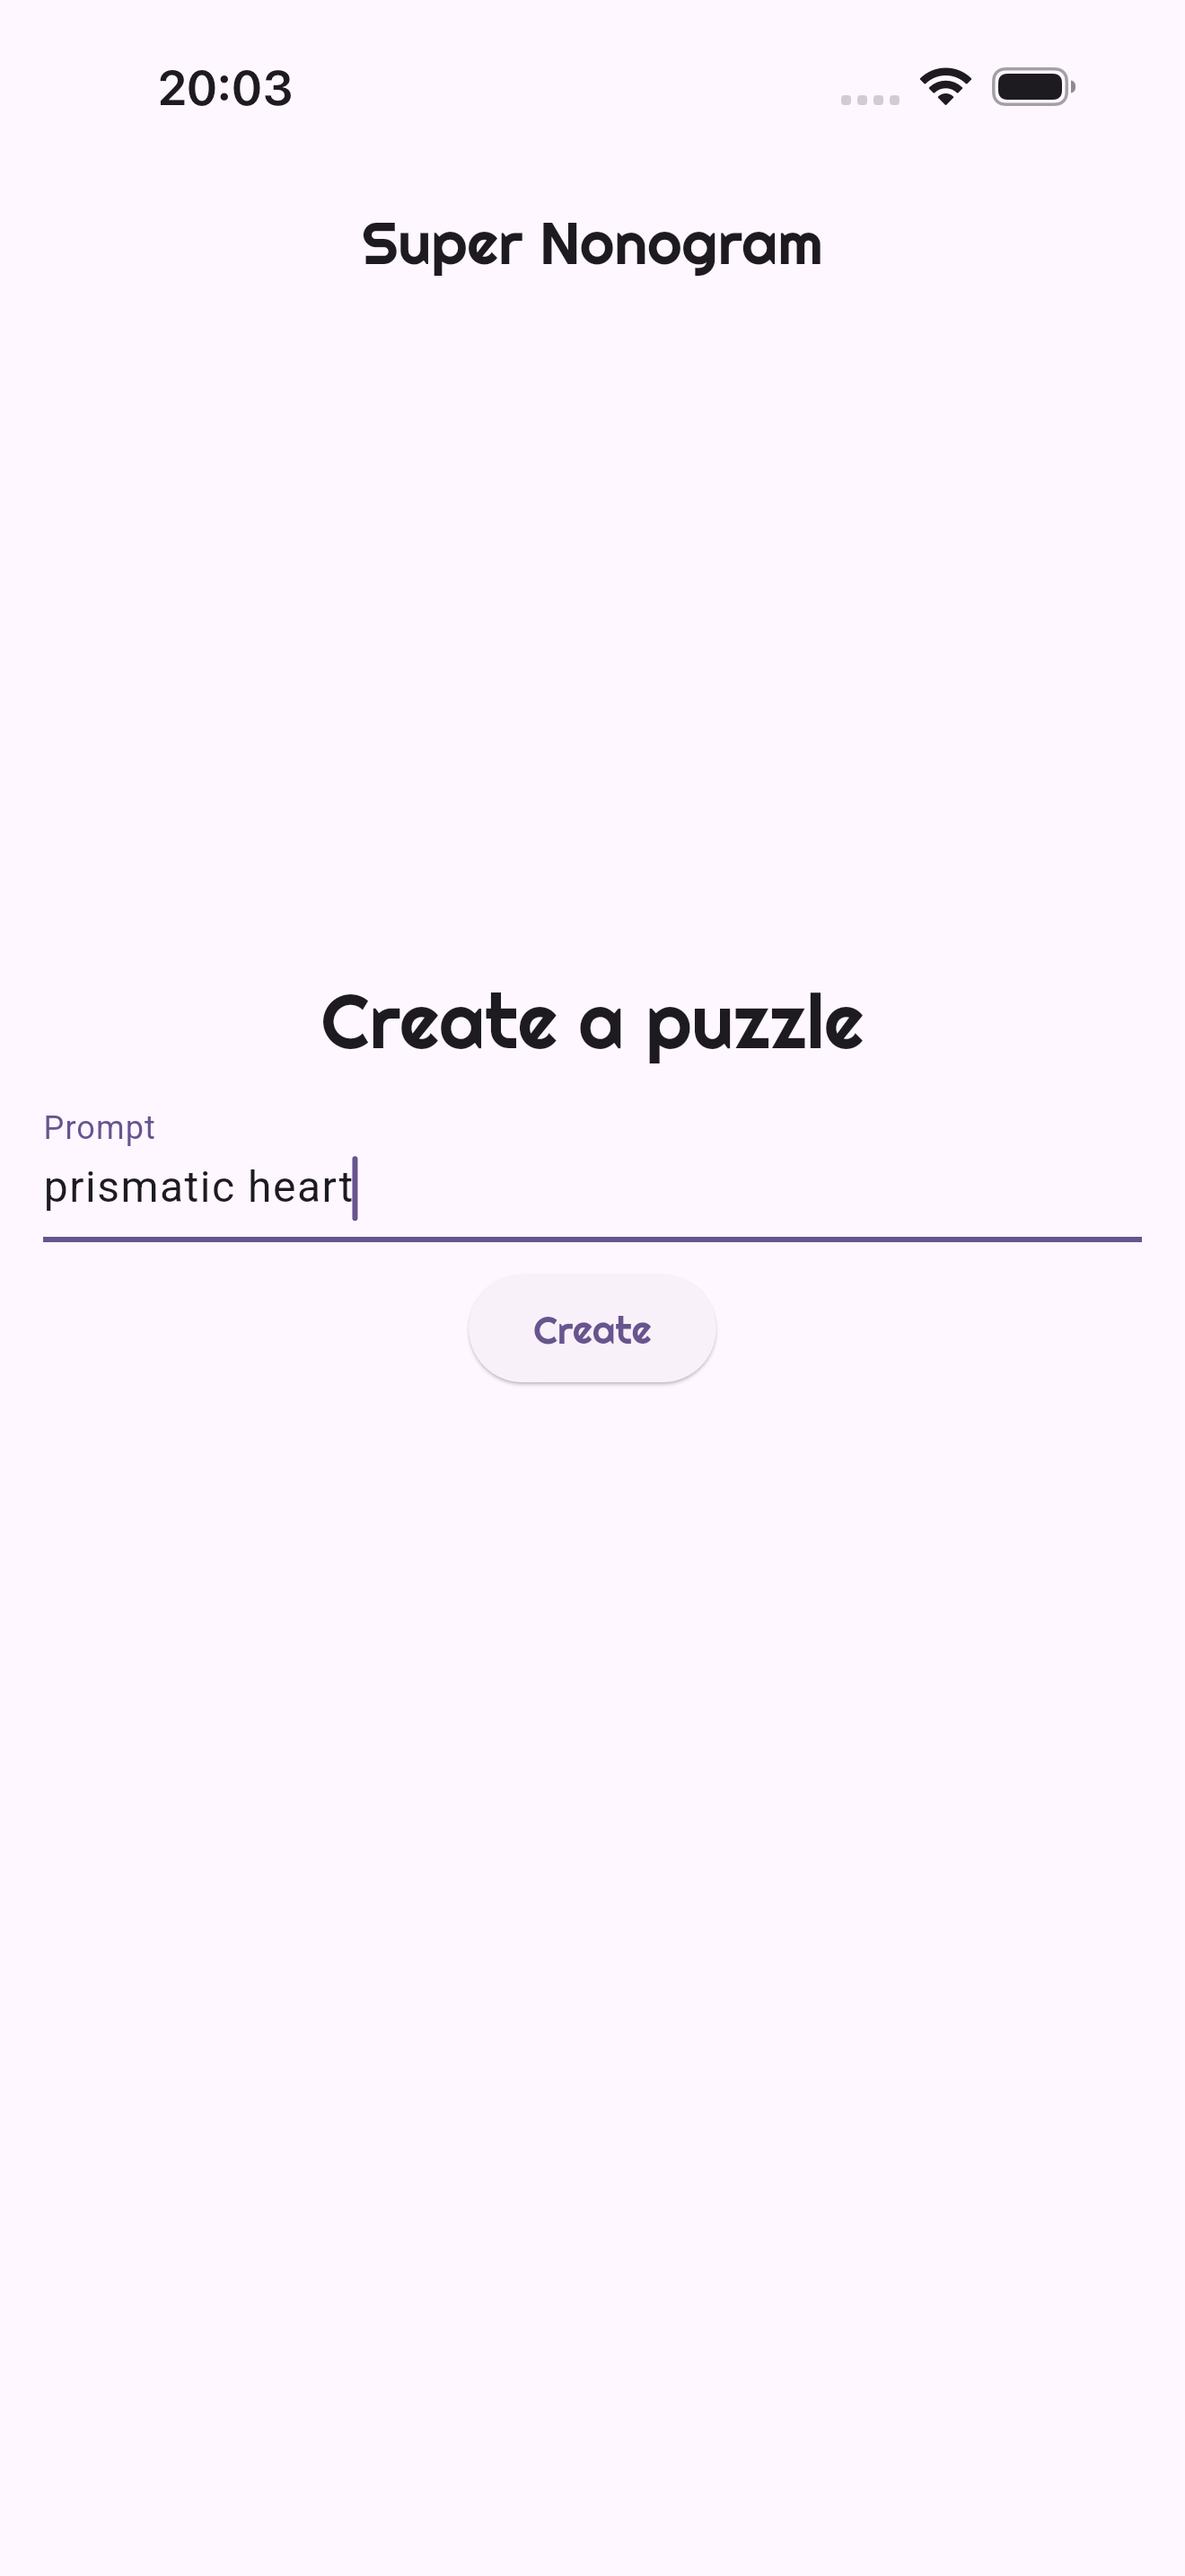
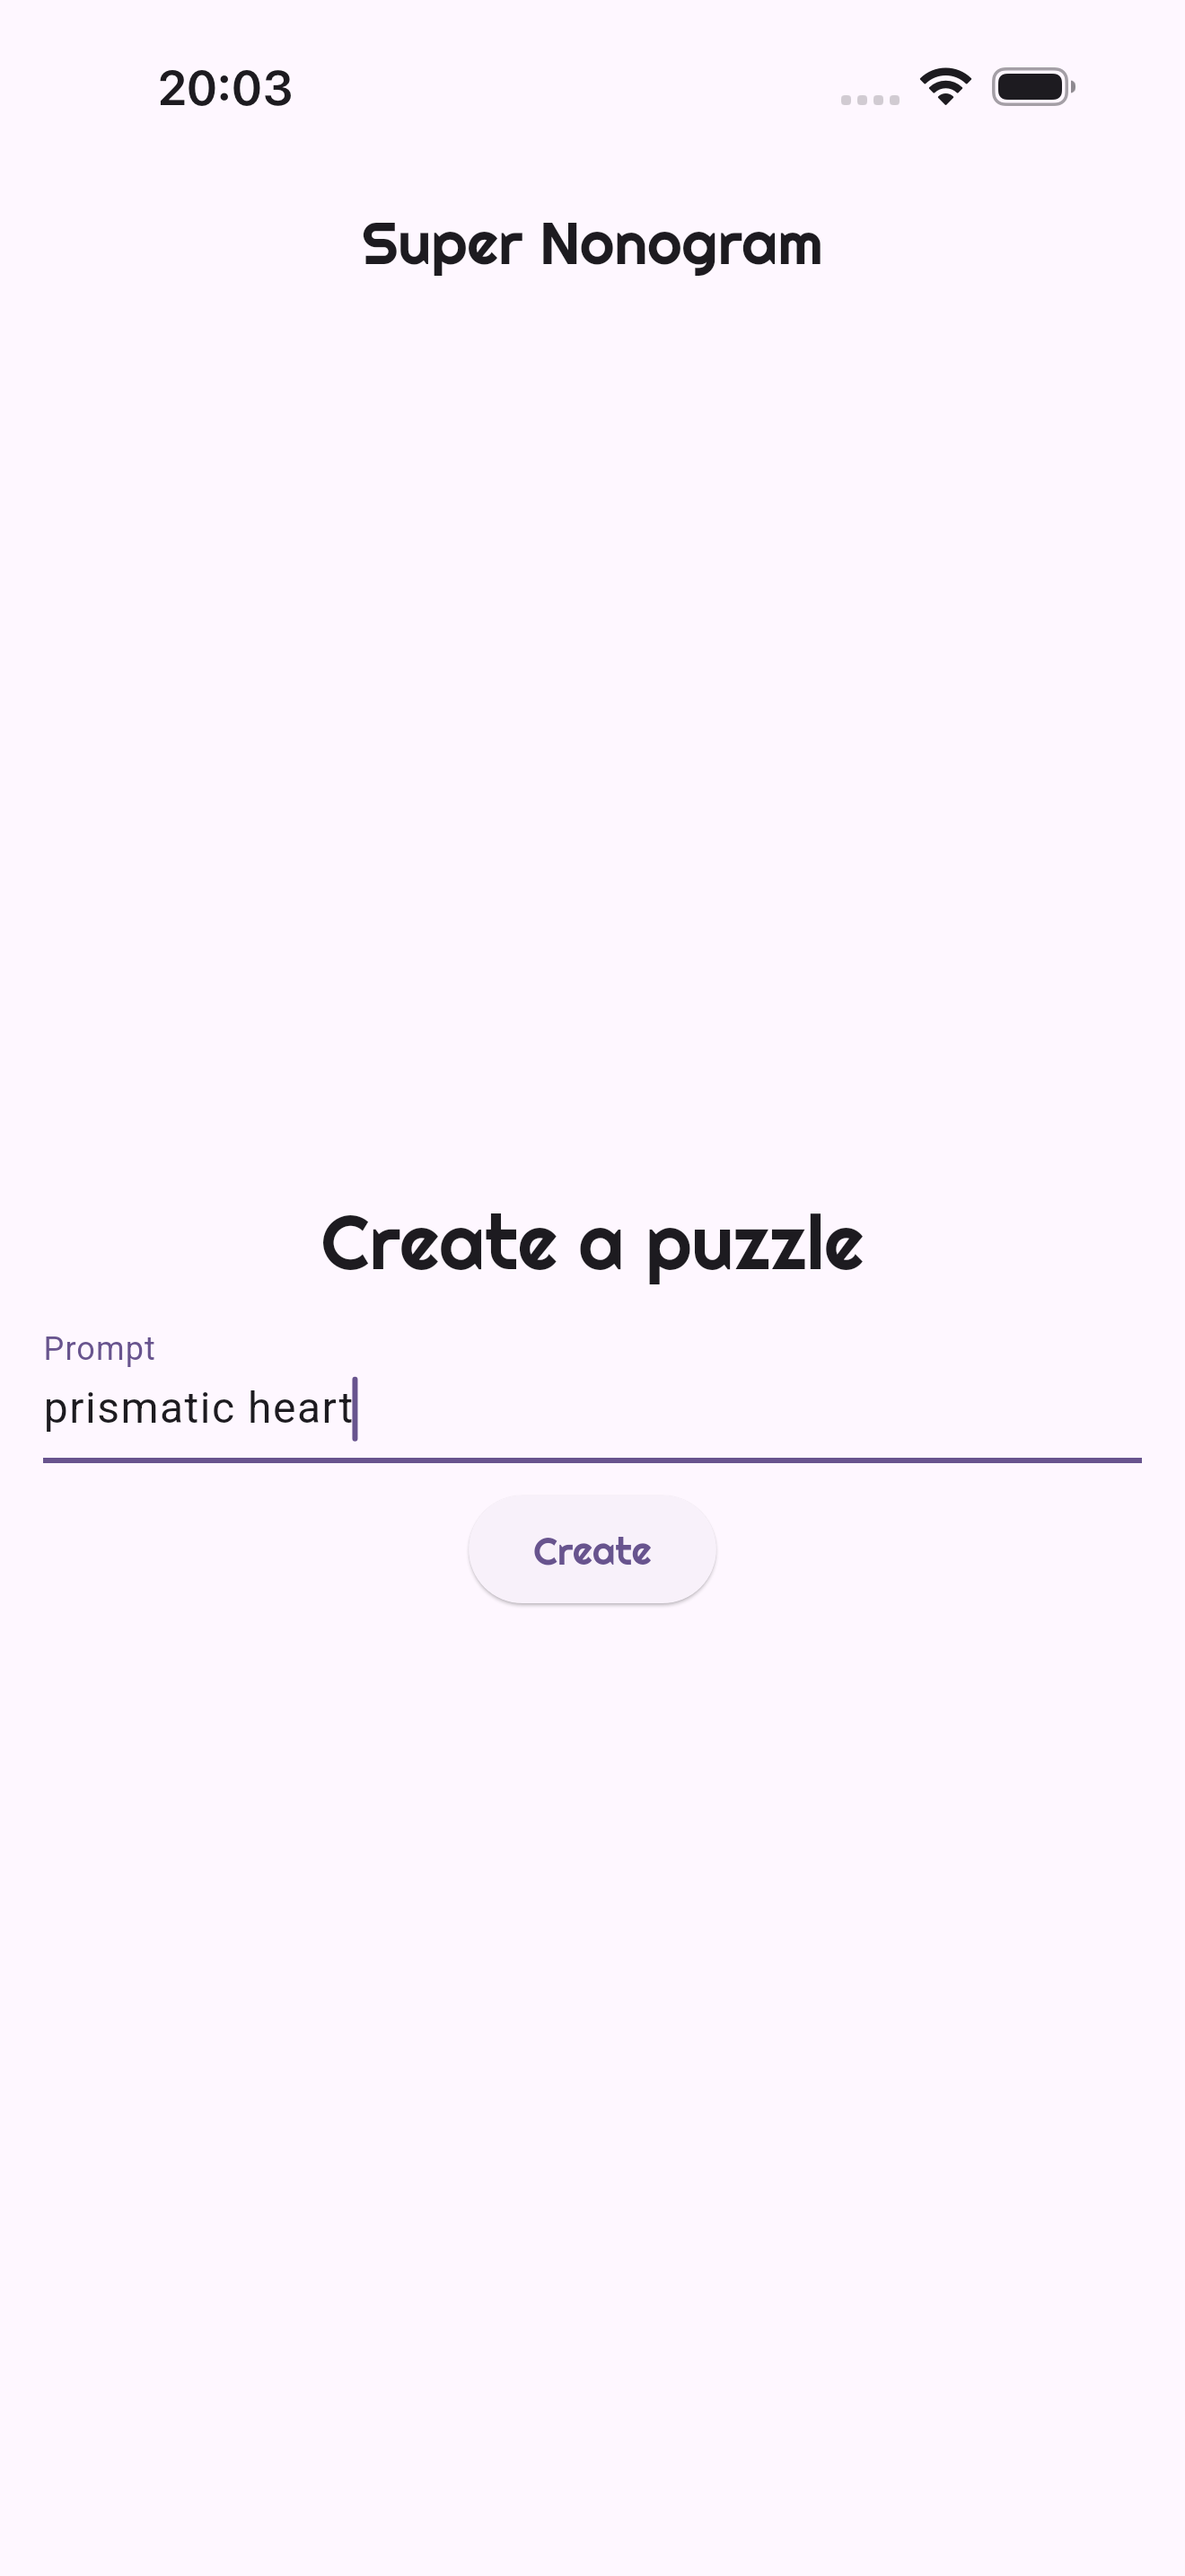
test: golden of image board

diff --git a/lib/pages/play_page.dart b/lib/pages/play_page.dart
@@ -1,6 +1,6 @@
+import 'dart:async';
 import 'dart:convert';
 import 'dart:math';
-import 'dart:typed_data';
 
 import 'package:flutter/foundation.dart';
 import 'package:flutter/gestures.dart';
@@ -32,13 +32,15 @@ class PlayPage extends StatefulWidget {
   final int? level;
 
   @override
-  State<PlayPage> createState() => _PlayPageState();
+  PlayPageState createState() => PlayPageState();
 }
 
-class _PlayPageState extends State<PlayPage> {
+@visibleForTesting
+class PlayPageState extends State<PlayPage> {
   PixabayImage? imageInfo;
   Uint8List? imageBytes;
   BoardState? answerBoard;
+  final colorSchemeFromImage = ValueNotifier<ColorScheme?>(null);
 
   TileState currentTileAction = TileState.selected;
 
@@ -58,6 +60,7 @@ class _PlayPageState extends State<PlayPage> {
         '/$encodedQuery.json',
       );
       imageBytes = await FileManager.readFile<Uint8List>('/$encodedQuery.png');
+      _loadColorSchemeFromImage();
       imageInfo = infoJson == null
           ? null
           : PixabayImage.fromJson(jsonDecode(infoJson));
@@ -67,6 +70,35 @@ class _PlayPageState extends State<PlayPage> {
       answerBoard = LevelToBoard.generate(widget.level!);
       setState(() {});
     }
+  }
+
+  @override
+  void didChangeDependencies() {
+    super.didChangeDependencies();
+
+    if (imageBytes != null) {
+      final brightness = Theme.of(context).brightness;
+      if (brightness != colorSchemeFromImage.value?.brightness) {
+        _loadColorSchemeFromImage();
+      }
+    }
+  }
+
+  @override
+  void dispose() {
+    colorSchemeFromImage.dispose();
+    super.dispose();
+  }
+
+  void _loadColorSchemeFromImage() async {
+    if (imageBytes == null) return;
+    final parentTheme = Theme.of(context);
+    colorSchemeFromImage.value = await ColorScheme.fromImageProvider(
+      provider: MemoryImage(imageBytes!),
+      dynamicSchemeVariant: .fidelity,
+      brightness: parentTheme.brightness,
+      contrastLevel: MediaQuery.highContrastOf(context) ? 0.9 : 0.0,
+    );
   }
 
   void onSolved() {
@@ -164,82 +196,77 @@ class _PlayPageState extends State<PlayPage> {
   Widget build(BuildContext context) {
     final parentTheme = Theme.of(context);
     final textTheme = parentTheme.textTheme;
-    return FutureBuilder(
-      future: imageBytes == null
-          ? null
-          : ColorScheme.fromImageProvider(
-              provider: MemoryImage(imageBytes!),
-              brightness: parentTheme.brightness,
-            ),
-      builder: (context, snapshot) {
-        final colorScheme = snapshot.data ?? parentTheme.colorScheme;
+    return ValueListenableBuilder(
+      valueListenable: colorSchemeFromImage,
+      builder: (context, colorSchemeFromImage, child) {
         return Theme(
-          data: parentTheme.copyWith(colorScheme: colorScheme),
-          child: Scaffold(
-            appBar: AppBar(
-              title: Text(t.title.appName),
-              // Display level selector
-              bottom: widget.level == null
-                  ? null
-                  : PreferredSize(
-                      preferredSize: const Size.fromHeight(48),
-                      child: Row(
-                        mainAxisAlignment: MainAxisAlignment.center,
-                        children: [
-                          if (widget.level! > 1)
-                            IconButton(
-                              onPressed: () {
-                                stows.currentLevel.value = widget.level! - 1;
-                                context.pushReplacement(
-                                  '/play?level=${stows.currentLevel.value}',
-                                );
-                              },
-                              icon: const Icon(Icons.arrow_left),
-                            ),
-                          Text(
-                            t.play.level(n: widget.level!),
-                            style: textTheme.titleLarge,
-                          ),
-                          IconButton(
-                            onPressed: () {
-                              stows.currentLevel.value = widget.level! + 1;
-                              context.pushReplacement(
-                                '/play?level=${stows.currentLevel.value}',
-                              );
-                            },
-                            icon: const Icon(Icons.arrow_right),
-                          ),
-                        ],
-                      ),
-                    ),
-            ),
-            body: Column(
-              children: [
-                Expanded(
-                  child: Center(
-                    child: answerBoard == null
-                        ? const CircularProgressIndicator()
-                        : Board(
-                            answerBoard: answerBoard!,
-                            srcImage: imageBytes,
-                            onSolved: onSolved,
-                            currentTileAction: currentTileAction,
-                          ),
-                  ),
-                ),
-                SafeArea(
-                  child: Toolbar(
-                    currentTileAction: currentTileAction,
-                    setTileAction: (tileAction) => setState(() {
-                      currentTileAction = tileAction;
-                    }),
-                  ),
-                ),
-              ],
-            ),
-          ),
+          data: parentTheme.copyWith(colorScheme: colorSchemeFromImage),
+          child: child!,
         );
       },
+      child: Scaffold(
+        appBar: AppBar(
+          title: Text(t.title.appName),
+          // Display level selector
+          bottom: widget.level == null
+              ? null
+              : PreferredSize(
+                  preferredSize: const Size.fromHeight(48),
+                  child: Row(
+                    mainAxisAlignment: MainAxisAlignment.center,
+                    children: [
+                      if (widget.level! > 1)
+                        IconButton(
+                          onPressed: () {
+                            stows.currentLevel.value = widget.level! - 1;
+                            context.pushReplacement(
+                              '/play?level=${stows.currentLevel.value}',
+                            );
+                          },
+                          icon: const Icon(Icons.arrow_left),
+                        ),
+                      Text(
+                        t.play.level(n: widget.level!),
+                        style: textTheme.titleLarge,
+                      ),
+                      IconButton(
+                        onPressed: () {
+                          stows.currentLevel.value = widget.level! + 1;
+                          context.pushReplacement(
+                            '/play?level=${stows.currentLevel.value}',
+                          );
+                        },
+                        icon: const Icon(Icons.arrow_right),
+                      ),
+                    ],
+                  ),
+                ),
+        ),
+        body: Column(
+          children: [
+            Expanded(
+              child: Center(
+                child: answerBoard == null
+                    ? const CircularProgressIndicator()
+                    : Board(
+                        answerBoard: answerBoard!,
+                        srcImage: imageBytes,
+                        onSolved: onSolved,
+                        currentTileAction: currentTileAction,
+                      ),
+              ),
+            ),
+            SafeArea(
+              child: Toolbar(
+                currentTileAction: currentTileAction,
+                setTileAction: (tileAction) => setState(() {
+                  currentTileAction = tileAction;
+                }),
+              ),
+            ),
+          ],
+        ),
+      ),
     );
   }
 

diff --git a/test/golden_screenshot_test.dart b/test/golden_screenshot_test.dart
@@ -4,9 +4,17 @@
 /// or `flutter test` to compare the screenshots to the golden files.
 library;
 
+import 'dart:convert';
+import 'dart:io';
+
 import 'package:flutter/material.dart';
 import 'package:flutter_test/flutter_test.dart';
 import 'package:golden_screenshot/golden_screenshot.dart';
+import 'package:super_nonogram/api/api.dart';
+import 'package:super_nonogram/api/file_manager.dart';
+import 'package:super_nonogram/api/image_to_board.dart';
+import 'package:super_nonogram/board/ngb.dart';
+import 'package:super_nonogram/pages/play_page.dart';
 import 'package:super_nonogram/pages/search_page.dart';
 import 'package:super_nonogram/pages/title_page.dart';
 import 'package:super_nonogram/theme/theme.dart';
@@ -17,22 +25,33 @@ void main() {
   group('Screenshot:', () {
     TestWidgetsFlutterBinding.ensureInitialized();
     setupMockPathProvider();
+    setUpAll(_createPrismaticHeartPuzzle);
 
     _screenshot('1-title', home: TitlePage());
 
     _screenshot(
       '2-search',
-      home: SearchPage(),
+      home: SearchPage(showPreviousPuzzles: false),
       beforeScreenshot: (tester) async {
-        final context = tester.element(find.byType(SearchPage));
-        if (Theme.of(context).platform == TargetPlatform.linux) {
-          // We haven't automated all the screenshots yet, so match the existing
-          // screenshots on Linux with a frog search.
-          await tester.enterText(find.byType(TextField), 'frog');
-        } else {
-          await tester.enterText(find.byType(TextField), 'prismatic heart');
-        }
+        await tester.enterText(find.byType(TextField), 'prismatic heart');
         await tester.pump();
+      },
+    );
+
+    _screenshot(
+      '3-heart',
+      home: PlayPage(query: 'prismatic heart', level: null),
+      beforeScreenshot: (tester) async {
+        final playPageState = tester.state<PlayPageState>(
+          find.byType(PlayPage),
+        );
+        // Wait for the board to load.
+        while (playPageState.colorSchemeFromImage.value == null) {
+          await tester.runAsync(
+            () => Future.delayed(const Duration(milliseconds: 10)),
+          );
+          await tester.pump();
+        }
       },
     );
   });
@@ -74,4 +93,36 @@ void _screenshot(
       });
     }
   });
+}
+
+Future<void> _createPrismaticHeartPuzzle([
+  String query = 'prismatic heart',
+]) async {
+  final baseFilename = Uri.encodeComponent(query);
+  final fileNgb = '/$baseFilename.ngb';
+  final filePng = '/$baseFilename.png';
+  final fileJson = '/$baseFilename.json';
+
+  final srcImage = File(
+    'test/test_assets/prismatic_heart.png',
+  ).readAsBytesSync();
+  final board = await ImageToBoard.importFromBytes(srcImage);
+  final info = PixabayImage(
+    id: 1237242,
+    pageUrl:
+        'https://pixabay.com/vectors/colorful-prismatic-chromatic-1237242/',
+    previewUrl: '_',
+    previewSize: const Size(150, 150),
+    webformatUrl: '_',
+    webformatSize: const Size(640, 640),
+    authorId: 1086657,
+    authorName: 'GDJ',
+    authorImageUrl: '_',
+  );
+
+  final ngb = Ngb.writeNgb(board!);
+  await FileManager.writeFile(fileNgb, string: ngb);
+  await FileManager.writeFile(filePng, bytes: srcImage);
+  await FileManager.writeFile(fileJson, string: jsonEncode(info));
+  PreviousPuzzles.recordPuzzle(query);
 }

diff --git a/lib/pages/search_page.dart b/lib/pages/search_page.dart
@@ -8,7 +8,12 @@ import 'package:super_nonogram/board/ngb.dart';
 import 'package:super_nonogram/i18n/strings.g.dart';
 
 class SearchPage extends StatefulWidget {
-  const SearchPage({super.key});
+  const SearchPage({
+    super.key,
+    @visibleForTesting this.showPreviousPuzzles = true,
+  });
+
+  final bool showPreviousPuzzles;
 
   @override
   State<SearchPage> createState() => _SearchPageState();
@@ -109,7 +114,7 @@ class _SearchPageState extends State<SearchPage> {
                   child: Text(t.search.create),
                 ),
                 const SizedBox(height: 32),
-                const PreviousPuzzles(),
+                if (widget.showPreviousPuzzles) const PreviousPuzzles(),
               ],
             ),
           ),

diff --git a/lib/api/api.dart b/lib/api/api.dart
@@ -96,7 +96,8 @@ class PixabayImage {
       '?utm_source=link-attribution&utm_medium=referral'
       '&utm_campaign=image&utm_content=$id';
 
-  const PixabayImage._({
+  @visibleForTesting
+  const PixabayImage({
     required this.id,
     required this.pageUrl,
     required this.previewUrl,
@@ -109,7 +110,7 @@ class PixabayImage {
   });
 
   factory PixabayImage.fromJson(Map<String, dynamic> json) {
-    return PixabayImage._(
+    return PixabayImage(
       id: json['id'],
       pageUrl: json['pageURL'],
       previewUrl: json['previewURL'],

diff --git a/lib/board/tile.dart b/lib/board/tile.dart
@@ -50,8 +50,11 @@ class TilePainter extends CustomPainter {
   }
 
   @override
-  bool shouldRepaint(covariant TilePainter oldDelegate) {
-    return oldDelegate.tileState != tileState;
+  bool shouldRepaint(TilePainter oldDelegate) {
+    return oldDelegate.tileState != tileState ||
+        oldDelegate.colorScheme != colorScheme ||
+        oldDelegate.onOffSwitchLabels != onOffSwitchLabels ||
+        oldDelegate.highContrast != highContrast;
   }
 
   static void paintTile(

diff --git a/lib/theme/theme.dart b/lib/theme/theme.dart
@@ -12,7 +12,7 @@ abstract class SuperNonogramTheme {
     colorScheme ??= ColorScheme.fromSeed(
       seedColor: Colors.deepPurple,
       brightness: brightness,
-      contrastLevel: highContrast ? 1.0 : 0.0,
+      contrastLevel: highContrast ? 0.9 : 0.0,
     );
     final textTheme = getTextTheme(stows.hyperlegibleFont.value, colorScheme);
     return ThemeData(
